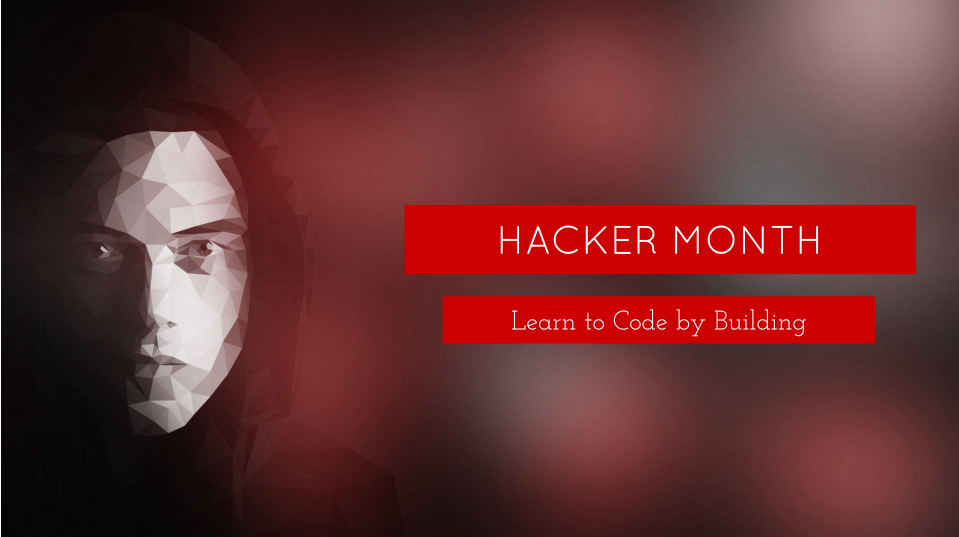
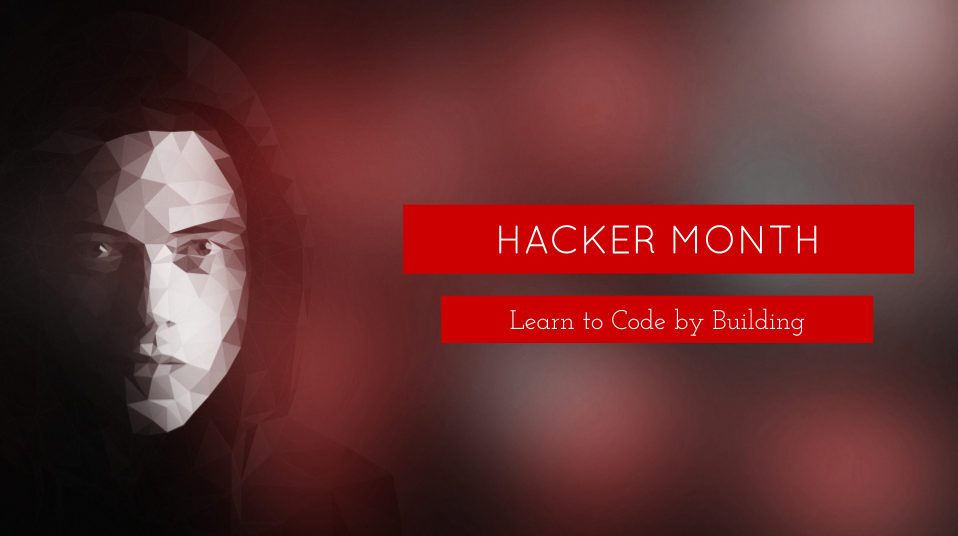
Fixed meetups navigation and changed timer position on main page

diff --git a/index.html b/index.html
@@ -9,7 +9,8 @@
   </head>
   <body>
     <header>
-      <img src="./img/banner.png">
+      <h1 class="main-timer timer js-timer" data-meetupDate="2016/12/04 14:00:00"></h1>
+      <img class="main-banner" src="./img/banner.png">
       <nav>
         <ul>
           <li><a href="#description">Description</a></li>
@@ -20,7 +21,6 @@
     </header>
     <main class="container">
       <section id="description">
-        <h1 class="timer js-timer" data-meetupDate="2016/12/04 14:00:00"></h1>
         <p>
           Hacker Month is a series of four meetups that revolve around the idea of learning to code by building. On the first day, you'll pitch your idea for a project to everyone, and those who find it interesting will join your team, or pitch their own ideas. Once the teams are formed, they'll spend the next 3 weeks simultaniously learning how to build and actually trying to build their project.
         </p>

diff --git a/meetup01/index.html b/meetup01/index.html
@@ -37,22 +37,22 @@
         <h1>Meetups</h1>
          <ul>
           <li>
-            <a target="_blank" href="./meetup01">
+            <a target="_blank" href="../meetup01">
               <span>&#128161;</span> Idea Session
             </a>
           </li>
           <li>
-            <a target="_blank" href="./meetup02">
+            <a target="_blank" href="../meetup02">
               <span>&#9980;</span> Pair Programming #1
             </a>
           </li>
           <li>
-            <a target="_blank" href="./meetup03">
+            <a target="_blank" href="../meetup03">
               <span>&#9980;</span> Pair Programming #2
             </a>
           </li>
           <li>
-            <a target="_blank" href="./meetup04">
+            <a target="_blank" href="../meetup04">
               <span>&#10175;</span> Project Showcase
             </a>
           </li>

diff --git a/meetup02/index.html b/meetup02/index.html
@@ -37,22 +37,22 @@
         <h1>Meetups</h1>
          <ul>
           <li>
-            <a target="_blank" href="./meetup01">
+            <a target="_blank" href="../meetup01">
               <span>&#128161;</span> Idea Session
             </a>
           </li>
           <li>
-            <a target="_blank" href="./meetup02">
+            <a target="_blank" href="../meetup02">
               <span>&#9980;</span> Pair Programming #1
             </a>
           </li>
           <li>
-            <a target="_blank" href="./meetup03">
+            <a target="_blank" href="../meetup03">
               <span>&#9980;</span> Pair Programming #2
             </a>
           </li>
           <li>
-            <a target="_blank" href="./meetup04">
+            <a target="_blank" href="../meetup04">
               <span>&#10175;</span> Project Showcase
             </a>
           </li>

diff --git a/meetup04/index.html b/meetup04/index.html
@@ -34,22 +34,22 @@
         <h1>Meetups</h1>
          <ul>
           <li>
-            <a target="_blank" href="./meetup01">
+            <a target="_blank" href="../meetup01">
               <span>&#128161;</span> Idea Session
             </a>
           </li>
           <li>
-            <a target="_blank" href="./meetup02">
+            <a target="_blank" href="../meetup02">
               <span>&#9980;</span> Pair Programming #1
             </a>
           </li>
           <li>
-            <a target="_blank" href="./meetup03">
+            <a target="_blank" href="../meetup03">
               <span>&#9980;</span> Pair Programming #2
             </a>
           </li>
           <li>
-            <a target="_blank" href="./meetup04">
+            <a target="_blank" href="../meetup04">
               <span>&#10175;</span> Project Showcase
             </a>
           </li>

diff --git a/meetup03/index.html b/meetup03/index.html
@@ -1,4 +1,3 @@
-
 <!DOCTYPE html>
 <html>
 <head>
@@ -38,22 +37,22 @@
       <h1>Meetups</h1>
        <ul>
         <li>
-          <a target="_blank" href="./meetup01">
+          <a target="_blank" href="../meetup01">
             <span>&#128161;</span> Idea Session
           </a>
         </li>
         <li>
-          <a target="_blank" href="./meetup02">
+          <a target="_blank" href="../meetup02">
             <span>&#9980;</span> Pair Programming #1
           </a>
         </li>
         <li>
-          <a target="_blank" href="./meetup03">
+          <a target="_blank" href="../meetup03">
             <span>&#9980;</span> Pair Programming #2
           </a>
         </li>
         <li>
-          <a target="_blank" href="./meetup04">
+          <a target="_blank" href="../meetup04">
             <span>&#10175;</span> Project Showcase
           </a>
         </li>

diff --git a/css/index.css b/css/index.css
@@ -18,6 +18,11 @@ body {
   background: #F7F7F7;
 }
 
+header .main-banner {
+  width : 100%;
+  height : 100%;
+}
+
 header .banner {
   display: block;
   width: 70%;
@@ -316,6 +321,16 @@ nav ul li a:hover {
 
 .meetups ul li:last-child a img {
   width: 150px;
+}
+
+header h1 {
+  color : #DDD;
+}
+
+header .main-timer {
+  position: absolute;
+  margin-top : 12%;
+  left : 48%;
 }
 
 .timer {
